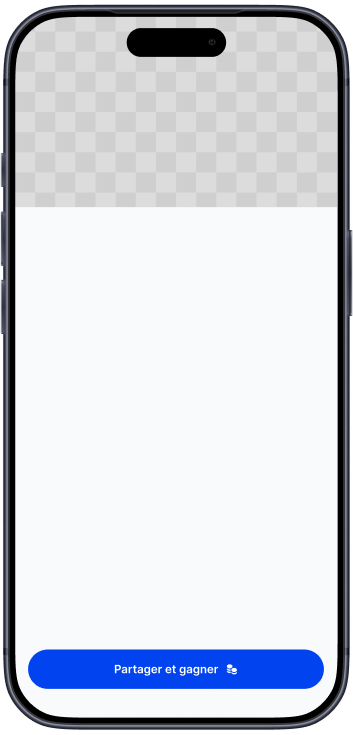
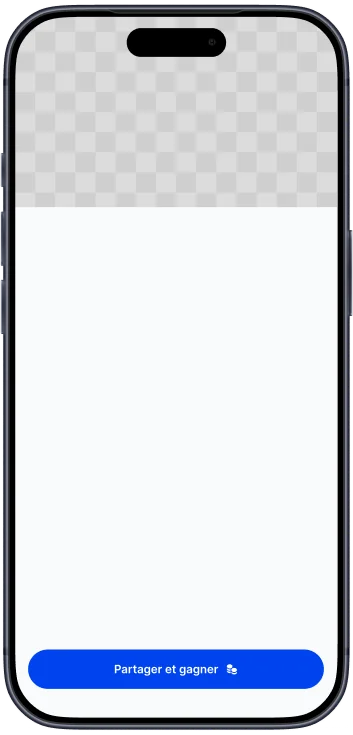
⚡️ Compress explorer phone-frame assets, add img dimensions

Changed region(s): [[0.3116, 0.898, 0.6856, 0.9279]]

diff --git a/packages/ui-preview/src/explorer-phone/index.tsx b/packages/ui-preview/src/explorer-phone/index.tsx
@@ -89,6 +89,10 @@ export function ExplorerPhonePreview({
                 src={phoneFrameUrl}
                 srcSet={`${phoneFrameUrl} 1x, ${phoneFrame2xUrl} 2x`}
                 alt=""
+                width={353}
+                height={735}
+                decoding="async"
+                fetchPriority="low"
                 className={styles.frameImage}
             />
 